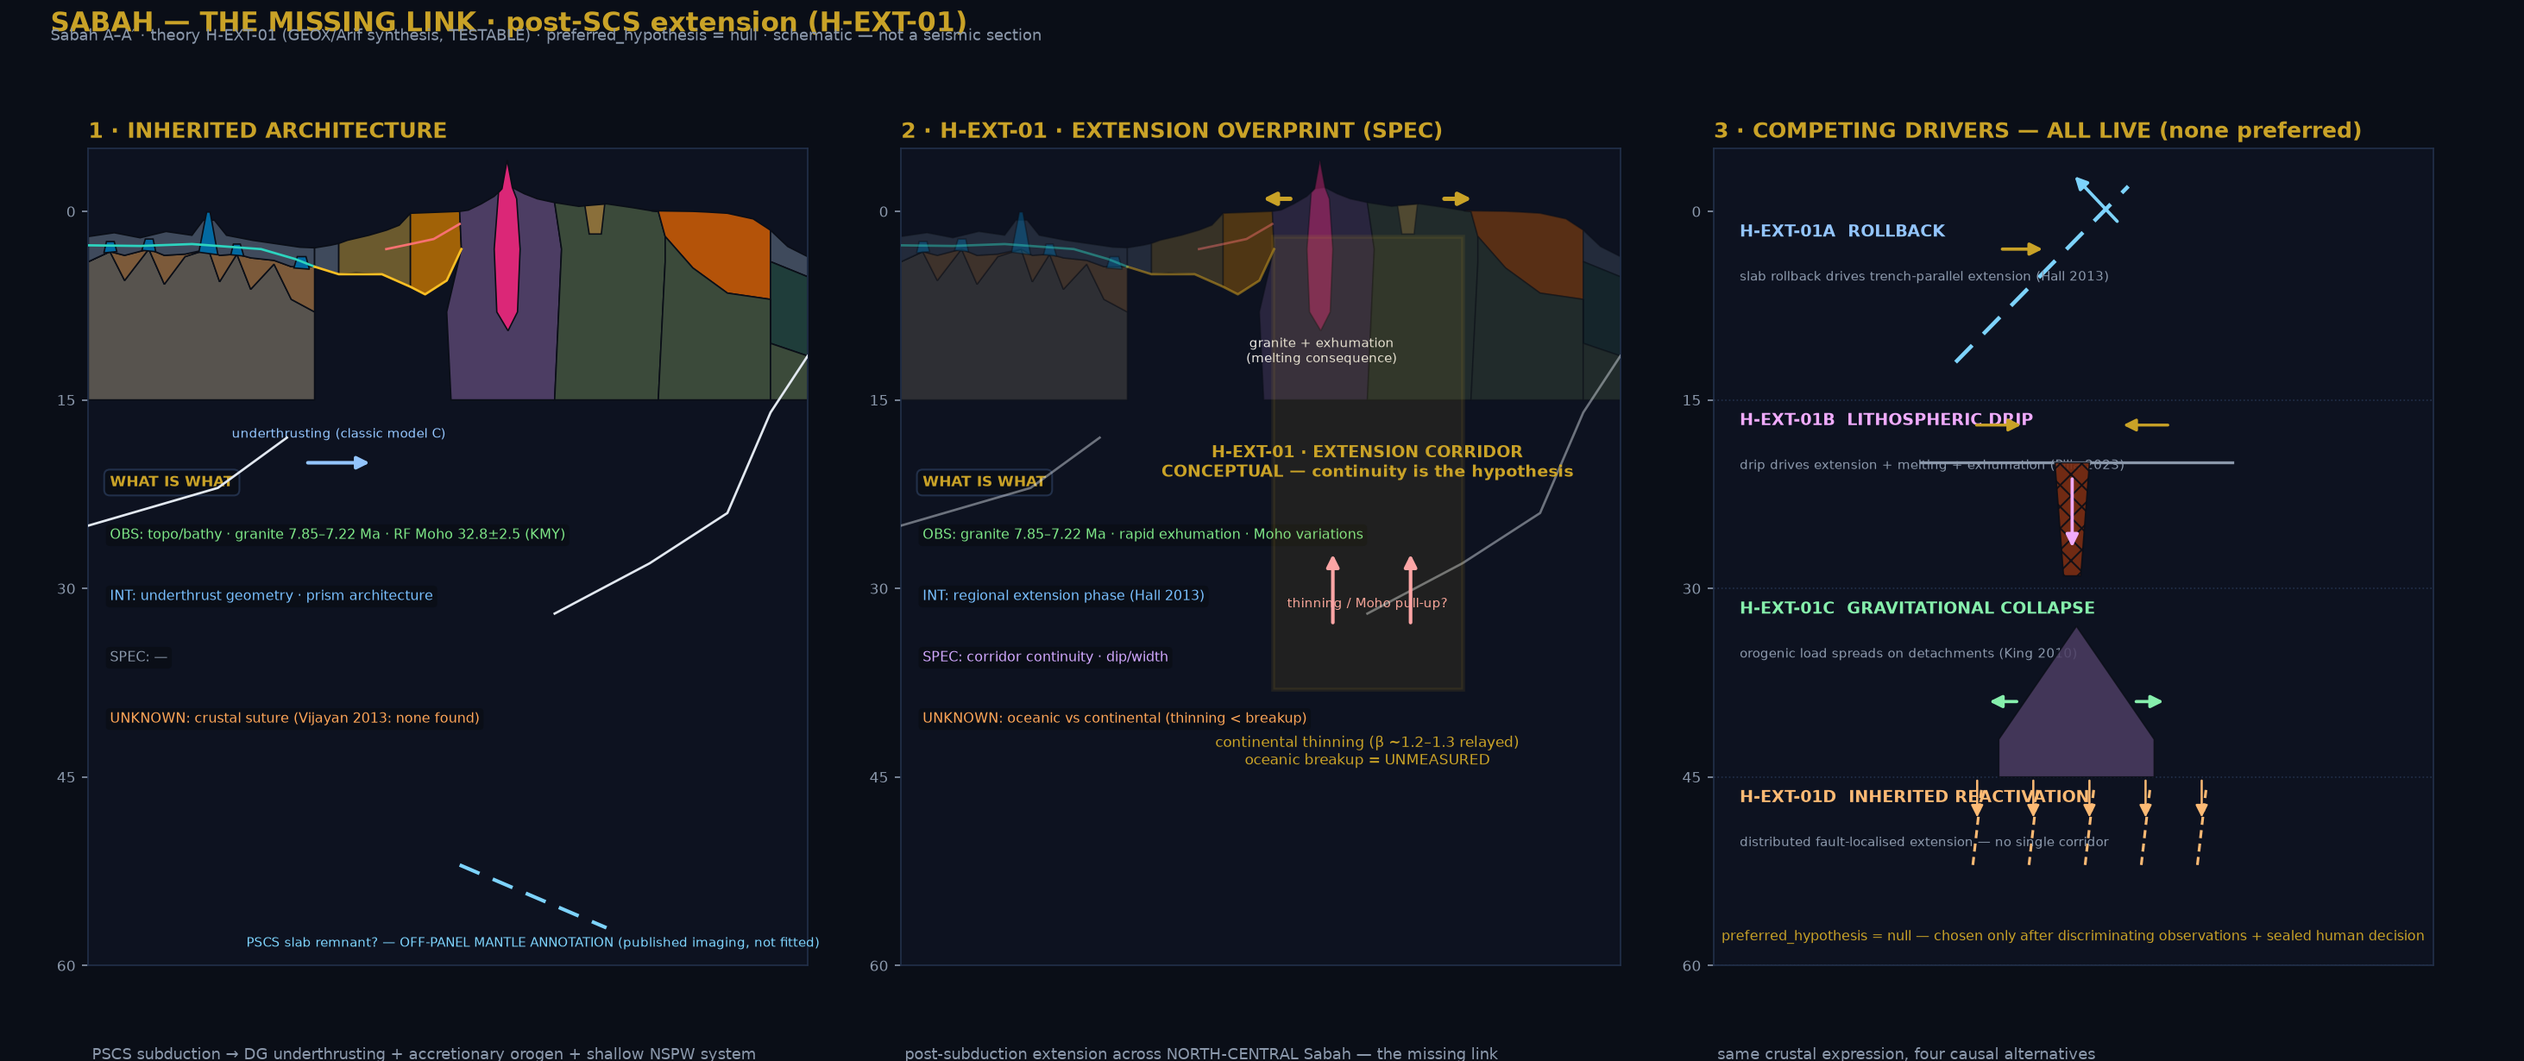
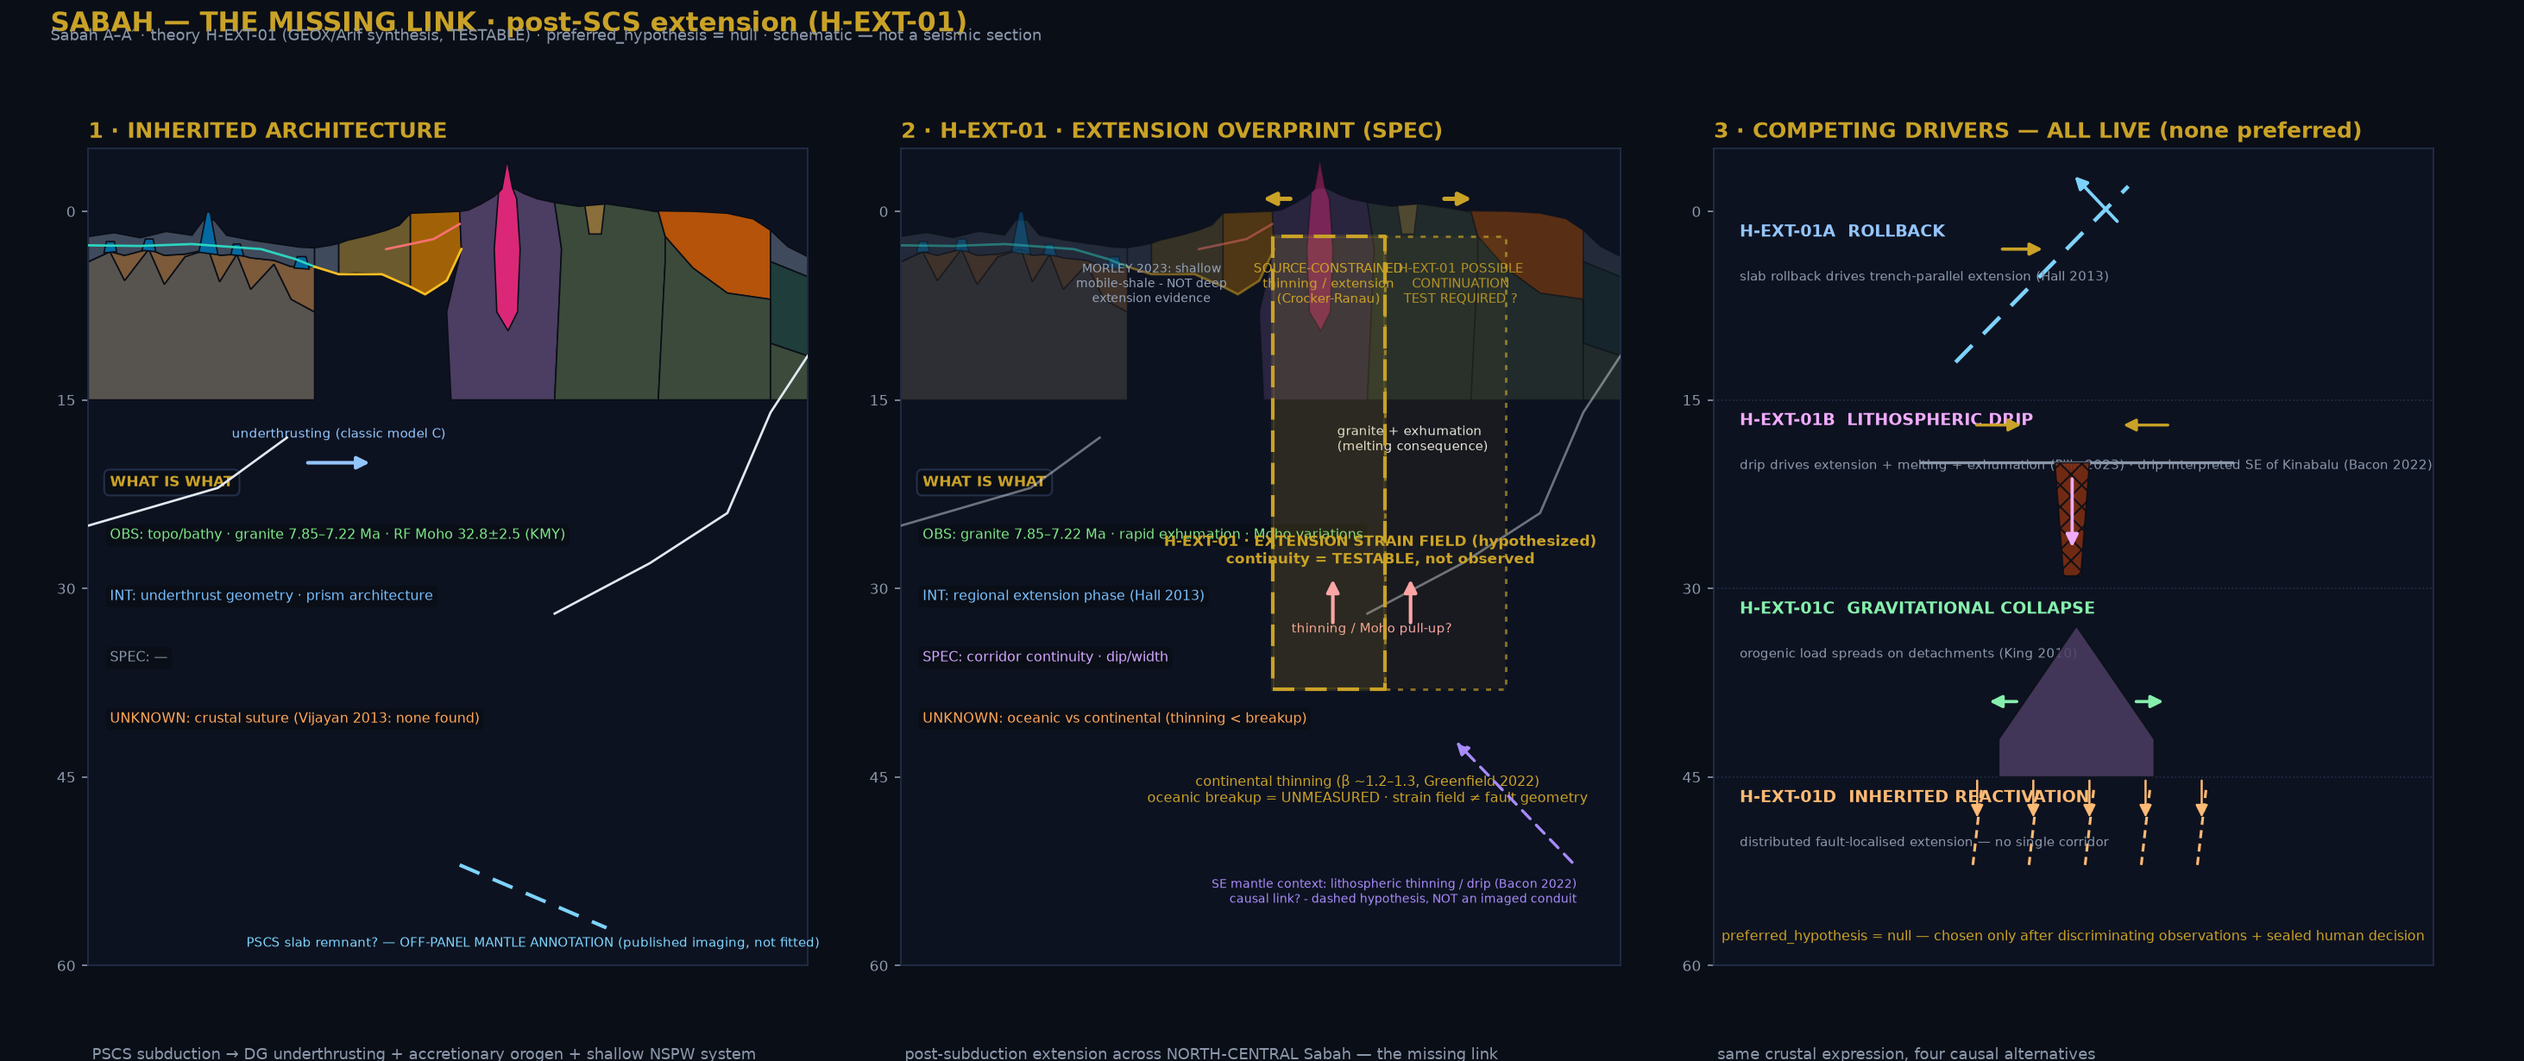
fix(geox/sections): H-EXT-01 scientific-scope patch — spatial confidence segmentation
Per scope review: the corridor must not read as uniformly proven along the
full 830 km transect. Implemented:

- figure grammar: corridor split into dashed fading segments —
  SOURCE-CONSTRAINED (Crocker-Ranau, x430-560) vs POSSIBLE CONTINUATION -
  TEST REQUIRED (Telupid+, x560-700); NSPW labelled "MORLEY 2023 shallow
  mobile-shale - NOT deep extension evidence" and kept disconnected; SE mantle
  context (Bacon 2022) as dashed causal arrow - "NOT an imaged conduit";
  wording changed to EXTENSION STRAIN FIELD (hypothesized), continuity =
  TESTABLE not observed, strain field != fault geometry
- H-EXT-01.md: official claim sentence; supported-core vs testable-reach
  table; spatial confidence segmentation law; HEXT-EV-01..06 evidence-object
  registry; source-boundary checks (beta 1.2-1.3 -> Greenfield et al. 2022 via
  primary pointer; Pilia 2023 = modelled mechanism only; Bacon 2022 =
  anisotropy context only; Morley 2023 = mobile shale only); build-fail rules
  (no solid corridor line, no 'confirmed corridor'/'through all Sabah' without
  OBS/DER object, no Morley-deep, no implied oceanic breakup, no omitted
  confidence categories, no privileged driver)
- SABAH_MODEL_LINEAGE.md: +M-GRL21, +M-GRN22 (Greenfield 2022, replaces
  M-THIN-RELAY), +M-BAC22, +M-RS861968 (~35 km crust Kinabalu/Ranau, ~30%
  thinning; Telupid <30 km) with relayed/primary-read-pending flags
- provenance_guard.py: +H01-grammar checks (segmentation labels, dashed
[…]

diff --git a/geox/sections/sabah_AA/render_hext01.py b/geox/sections/sabah_AA/render_hext01.py
@@ -152,45 +152,38 @@ def p1(ax, title, sub):
 
 def p2(ax, title, sub):
     frame(
-        ax, "2 · H-EXT-01 · EXTENSION OVERPRINT (SPEC)", "post-subduction extension across NORTH-CENTRAL Sabah — the missing link"
+        ax, "2 \u00b7 H-EXT-01 \u00b7 EXTENSION OVERPRINT (SPEC)", "post-subduction extension across NORTH-CENTRAL Sabah \u2014 the missing link"
     )
     draw_inherited(ax, alpha=0.45)
-    zone = [[430, 2], [650, 2], [650, 38], [430, 38]]
-    poly(ax, zone, "#c9a227", alpha=0.10, ec=GOLD, lw=2.2, z=7)
-    ax.text(
-        540,
-        20,
-        "H-EXT-01 · EXTENSION CORRIDOR\nCONCEPTUAL — continuity is the hypothesis",
-        color=GOLD,
-        fontsize=9,
-        ha="center",
-        va="center",
-        fontweight="bold",
-        zorder=9,
-    )
+    z1 = [[430, 2], [560, 2], [560, 38], [430, 38]]
+    z2 = [[560, 2], [700, 2], [700, 38], [560, 38]]
+    poly(ax, z1, "#c9a227", alpha=0.16, ec=GOLD, lw=2.0, z=7)
+    poly(ax, z2, "#c9a227", alpha=0.06, ec="none", z=7)
+    ax.plot([430, 430, 560, 560, 430], [2, 38, 38, 2, 2], color=GOLD, lw=2.0, ls=(0, (6, 3)), zorder=8)
+    ax.plot([560, 560, 700, 700, 560], [2, 38, 38, 2, 2], color=GOLD, lw=1.4, ls=(0, (2, 3)), alpha=0.65, zorder=8)
+    ax.text(495, 4, "SOURCE-CONSTRAINED\nthinning / extension\n(Crocker-Ranau)", color=GOLD, fontsize=7, ha="center", va="top", zorder=9)
+    ax.text(648, 4, "H-EXT-01 POSSIBLE\nCONTINUATION\nTEST REQUIRED ?", color=GOLD, fontsize=7, ha="center", va="top", alpha=0.85, zorder=9)
+    ax.text(290, 4, "MORLEY 2023: shallow\nmobile-shale - NOT deep\nextension evidence", color="#94a3b8", fontsize=6.8, ha="center", va="top", zorder=9)
+    ax.text(555, 27, "H-EXT-01 \u00b7 EXTENSION STRAIN FIELD (hypothesized)\ncontinuity = TESTABLE, not observed", color=GOLD, fontsize=8, ha="center", va="center", fontweight="bold", zorder=9)
+    ax.text(505, 19, "granite + exhumation\n(melting consequence)", color=INK, fontsize=7, ha="left")
     arrow(ax, (455, -1), (415, -1), GOLD, 2.4)
     arrow(ax, (625, -1), (665, -1), GOLD, 2.4)
-    ax.text(
-        540,
-        44,
-        "continental thinning (β ~1.2–1.3 relayed)\noceanic breakup = UNMEASURED",
-        color=GOLD,
-        fontsize=8,
-        ha="center",
-    )
-    arrow(ax, (500, 33), (500, 27), "#fca5a5", 2.0)
-    arrow(ax, (590, 33), (590, 27), "#fca5a5", 2.0)
-    ax.text(540, 31.5, "thinning / Moho pull-up?", color="#fca5a5", fontsize=7, ha="center")
-    ax.text(487, 12, "granite + exhumation\n(melting consequence)", color=INK, fontsize=7, ha="center")
+    ax.text(540, 47, "continental thinning (\u03b2 ~1.2\u20131.3, Greenfield 2022)\noceanic breakup = UNMEASURED \u00b7 strain field \u2260 fault geometry", color=GOLD, fontsize=7.5, ha="center")
+    arrow(ax, (500, 33), (500, 29), "#fca5a5", 2.0)
+    arrow(ax, (590, 33), (590, 29), "#fca5a5", 2.0)
+    ax.text(545, 33.5, "thinning / Moho pull-up?", color="#fca5a5", fontsize=7, ha="center")
+    arrow(ax, (780, 52), (640, 42), "#a78bfa", 1.6, ls=(0, (4, 3)))
+    ax.text(782, 55, "SE mantle context: lithospheric thinning / drip (Bacon 2022)\ncausal link? - dashed hypothesis, NOT an imaged conduit", color="#a78bfa", fontsize=6.8, ha="right")
     ledger(
         ax,
         [
-            ("OBS", "granite 7.85–7.22 Ma · rapid exhumation · Moho variations", "#7ee787"),
+            ("OBS", "granite 7.85\u20137.22 Ma \u00b7 rapid exhumation \u00b7 Moho variations", "#7ee787"),
             ("INT", "regional extension phase (Hall 2013)", "#79c0ff"),
-            ("SPEC", "corridor continuity · dip/width", "#d2a8ff"),
+            ("SPEC", "corridor continuity \u00b7 dip/width", "#d2a8ff"),
             ("UNKNOWN", "oceanic vs continental (thinning < breakup)", "#ffa657"),
         ],
     )
+
 
 
 def p3(ax, title, sub):
@@ -211,7 +204,13 @@ def p3(ax, title, sub):
     arrow(ax, (300, 17), (360, 17), GOLD, 1.6)
     arrow(ax, (530, 17), (470, 17), GOLD, 1.6)
     ax.text(30, 17, "H-EXT-01B  LITHOSPHERIC DRIP", color="#f0abfc", fontsize=9, fontweight="bold")
-    ax.text(30, 20.5, "drip drives extension + melting + exhumation (Pilia 2023)", color=DIM, fontsize=7)
+    ax.text(
+        30,
+        20.5,
+        "drip drives extension + melting + exhumation (Pilia 2023) \u00b7 drip interpreted SE of Kinabalu (Bacon 2022)",
+        color=DIM,
+        fontsize=7,
+    )
     # C collapse (z 30..45)
     poly(ax, [[330, 42], [420, 33], [510, 42], [510, 45], [330, 45]], "#4c3d63", alpha=0.85, z=5)
     arrow(ax, (355, 39), (315, 39), "#86efac", 1.8)

diff --git a/geox/sections/sabah_AA/provenance_guard.py b/geox/sections/sabah_AA/provenance_guard.py
@@ -72,6 +72,19 @@ for e in prov["entries"]:
             except Exception:
                 pass
 
+
+# 7. H-EXT-01 scope-patch rules (figure grammar)
+rscript = (HERE / "render_hext01.py").read_text()
+for req in ("SOURCE-CONSTRAINED", "POSSIBLE", "STRAIN FIELD", "preferred_hypothesis = null",
+            "NOT deep", "NOT an imaged conduit", "Greenfield"):
+    if req not in rscript:
+        fails.append(f"H01-GRAMMAR: missing '{req}' in figure script")
+for bad in ("confirmed corridor", "through all Sabah"):
+    if bad in rscript.lower():
+        fails.append(f"H01-GRAMMAR: banned phrase '{bad}'")
+if "ls=(0, (6, 3))" not in rscript or "ls=(0, (2, 3))" not in rscript:
+    fails.append("H01-GRAMMAR: corridor segments must both be dashed")
+
 print(f"provenance_guard: {len(prov['entries'])} entries checked")
 if fails:
     print(f"VERDICT: FAIL ({len(fails)})")

diff --git a/geox/sections/sabah_AA/H-EXT-01.md b/geox/sections/sabah_AA/H-EXT-01.md
@@ -3,7 +3,37 @@ Status: **TESTABLE · GEOX/Arif source-constrained synthesis · NOT a published 
 Registry: `sabah_model_provenance.json` · Lineage: `SABAH_MODEL_LINEAGE.md` · Guard: `provenance_guard.py`
 Author: Muhammad Arif bin Fazil (theory) · forged into falsifiable form 2026-10-20 · preferred_hypothesis = **null**
 
-## Claim
+## Claim (official wording, 2026-10-20 scope patch)
+> **H-EXT-01 proposes that post-subduction extension and lithospheric/crustal thinning affected
+> parts of north and central Sabah, potentially linking the Crocker–Kinabalu–Ranau–Telupid region
+> to a broader post-subduction deformation system. Its continuity, timing, kinematics, eastward
+> reach, and deep driver remain untested; it does not claim oceanic breakup or a new plate.**
+
+Mandatory figure wording: *"H-EXT-01 proposes regional to localized post-subduction
+extension/thinning. Continuity across the full transect is a testable hypothesis, not an observed
+structure."*
+
+### Supported core vs testable reach
+| Statement | Status |
+|---|---|
+| Northern Borneo underwent post-subduction deformation + localized extension/thinning | **Supported synthesis** (GRL 2021 post-subduction tectonics; Hall 2013) |
+| Kinabalu/Ranau underlain by relatively thin crust (~35 km), thinning ~30% | **Source-constrained interpretation** (Greenfield et al. 2022 family / RS preprint — primary read pending) |
+| Telupid crust thinner than 30 km | **Source-constrained interpretation** (same synthesis) |
+| Lithospheric drip (Sulu Arc root remnant) linked to extension/thinning SE of Kinabalu | **Published mantle interpretation + numerical mechanism** (Bacon et al. 2022 anisotropy; Pilia et al. 2023 modelling) — not direct proof |
+| A continuous extension corridor spans all of north-central Sabah | **H-EXT-01 hypothesis** — not directly demonstrated continuously |
+| Extension reached oceanic breakup / new plate / oceanic strip | **UNMEASURED — do not draw** |
+
+**Spatial confidence segmentation (figure law):**
+- **Crocker–Kinabalu–Ranau** → `SOURCE-CONSTRAINED POST-SUBDUCTION THINNING / EXTENSION`
+- **Telupid / interior eastward** → `H-EXT-01 POSSIBLE CONTINUATION — TEST REQUIRED`
+- **NW / NSPW** → `MORLEY 2023: SHALLOW MOBILE-SHALE SYSTEM — NOT EVIDENCE OF DEEP EXTENSION` (disconnected from the deep corridor unless a separate evidence object links them)
+- **SE toward Semporna/Tawau (if shown)** → `PUBLISHED MANTLE INTERPRETATION: LITHOSPHERIC THINNING / DRIP CONTEXT` — dashed off-panel causal arrow only, never an imaged conduit.
+
+**Grammar rules:** corridor = dashed, fading, segmented band (three confidence states) — never a solid
+envelope; mantle link = dashed causal arrow, never a physical pipe; **extension strain field ≠ extension
+fault geometry** (strain may be hypothesized; fault geometry requires mapped kinematics + dated structures).
+
+## Claim (original formulation)
 After Proto–South China Sea subduction terminated and Dangerous Grounds underthrusting built the
 inherited architecture, **extension propagated across north and central Sabah** (Crocker–Kinabalu–Telupid
 sector), overprinting the collisional architecture. Its crustal/lithospheric expression contributes to
@@ -21,6 +51,7 @@ delamination, or a lithospheric drip.
 - NOT oceanic spreading · NOT new oceanic crust · NOT a third plate · NOT "three plates beneath Sabah Basin".
 - NOT a measured continuous fault corridor (its continuity is the hypothesis).
 - NOT attributed to Morley et al. (2023) — their scope is the shallow mobile-shale system only.
+- No continuous mapped rift fault · no "confirmed corridor" · no "through all Sabah" phrasing without an OBS/DER evidence object · no direct mantle conduit.
 - No preferred driver. Any panel showing one driver as chosen without a sealed human decision = build failure.
 
 ## Alternative drivers (all live)
@@ -50,6 +81,14 @@ delamination, or a lithospheric drip.
 5. **A discrete alternative fits all observations** while H-EXT-01 fails (e.g. purely gravity-driven with zero deep signature).
 6. **Oceanic crust proven** — would not falsify extension, but would falsify the *continental* scope as stated → fork to H-EXT-02 (oceanic variant) rather than mutate this ID.
 
+## Build-fail additions (figure/registry gate)
+- a solid line represents the full corridor as observed → FAIL
+- "continuous" / "through all Sabah" / "confirmed corridor" without an OBS/DER evidence object → FAIL
+- Morley used to support deep extension → FAIL
+- oceanic breakup visually implied → FAIL
+- confidence categories omitted from the corridor graphic → FAIL
+- a driver visually privileged without a sealed human-gate decision → FAIL
+
 ## Driver-discriminating surveys (what kills A vs B vs C vs D)
 | Survey | A rollback | B drip | C gravity | D reactivation |
 |---|---|---|---|---|
@@ -57,6 +96,23 @@ delamination, or a lithospheric drip.
 | RF Moho + tomography | hinge-migrated thinning | Moho + drip column above anomaly | thinning under load only | no coherent Moho signal |
 | Extensional fault maps | regional, trench-parallel | symmetric about drip | load-bounded, detachment-linked | localised on inherited faults |
 | Thermochronology | migration with hinge | focused above drip | load-progressive | patchy, fault-controlled |
+
+## Evidence-object registry (HEXT-EV)
+| ID | Object | Status | Decides |
+|---|---|---|---|
+| HEXT-EV-01 | Crustal thickness / thinning constraint, Crocker–Kinabalu–Ranau | OPEN | is thinning localized or continuous? |
+| HEXT-EV-02 | Telupid crustal thickness + structural timing | OPEN | does the corridor continue east? |
+| HEXT-EV-03 | Extensional vs contractional kinematic dataset | OPEN | strain field real? fault geometry? |
+| HEXT-EV-04 | Magmatic / thermochronologic timing | OPEN | extension after subduction termination? |
+| HEXT-EV-05 | Gravity + magnetics + heat-flow/BHT discrimination | OPEN | density vs intrusive vs architecture |
+| HEXT-EV-06 | Mantle anisotropy / tomography spatial registration | OPEN | drip vs rollback vs inherited fabric |
+
+## Source-boundary checks (attribution law, extended)
+- β ≈ 1.2–1.3 thinning → **Greenfield et al. (2022)** (ScienceDirect S1342937X2200243X) — cite via this
+  primary pointer; treat as *below crustal-breakup values*.
+- **Pilia et al. (2023)** → modelled lithospheric-drip MECHANISM only — never direct observation of crustal geometry.
+- **Bacon et al. (2022)** → anisotropy / lithospheric-thinning CONTEXT only — not proof of a continuous corridor.
+- **Morley et al. (2023)** → mobile shale / mud canopy ONLY (see lineage §0).
 
 ## Decision rule
 No driver may be shown as preferred on any figure or page until a **sealed human-gate decision**

diff --git a/geox/sections/sabah_AA/SABAH_MODEL_LINEAGE.md b/geox/sections/sabah_AA/SABAH_MODEL_LINEAGE.md
@@ -128,6 +128,23 @@ Nature Geoscience 2023 (s41561-023-01201-7)  [first-author attribution per relay
 ### M-CHOI26 — Choi, T. (2026), TGS/EAGE workshop — Layang-Layang Oligocene play
 - Claim: frontier play context. Evidence: workshop abstract. **Does NOT claim:** Sabah crustal architecture.
 
+### M-GRL21 — "Post-Subduction Tectonics of Sabah, Northern Borneo, Inferred from…" (GRL 2021, doi:10.1029/2021GL096117)  [RELAYED]
+- Claim: northern Borneo post-subduction deformation incl. localized extension/thinning.
+- **Does NOT claim:** a continuous corridor geometry.
+
+### M-GRN22 — Greenfield et al. (2022), "Continental rifting in the South China Sea through extension…" (S1342937X2200243X)
+- Claim: **β ≈ 1.2–1.3 crustal thinning — below crustal-breakup values** → continental extension favoured.
+- Section geometry? No. **Does NOT claim:** oceanic breakup in Sabah. [primary-source read pending]
+
+### M-BAC22 — Bacon et al. (2022), "The Signature of Lithospheric Anisotropy at Post-Subduction…" (doi family 2022GC010564)
+- Claim: anisotropy — marked lithospheric thinning around **Tawau/Semporna (SE Sabah)**; fast anomaly
+  trending toward Kinabalu, linked to a possible drip. Mantle-scale context.
+- **Does NOT claim:** a continuous extension corridor · an imaged mantle conduit.
+
+### M-RS861968 — "Effects of post-subduction processes on continental lithosphere" (ResearchSquare rs-861968 preprint)  [RELAYED]
+- Claim: Kinabalu/Ranau crust **~35 km** with thinning **~30%**; **Telupid crust <30 km**.
+- Limitation: preprint — source-constrained interpretation, not final publication.
+
 ## 2. GEOX / Arif models (versioned registry)
 
 | ID | Type | Basis | Status | Does NOT claim |

diff --git a/geox/sections/sabah_AA/geometry_diff.md b/geox/sections/sabah_AA/geometry_diff.md
@@ -1,0 +1,13 @@
+# Before/after geometry diff — H-EXT-01 scientific-scope patch (2026-10-20)
+Rule applied: do NOT imply a continuous mapped extension corridor across the full 830 km transect.
+
+| Element | Before | After |
+|---|---|---|
+| Corridor envelope | single translucent rectangle x=430–650, solid edges, one label "EXTENSION CORRIDOR CONCEPTUAL" | **two dashed segments + fade**: 430–560 `SOURCE-CONSTRAINED (Crocker–Kinabalu–Ranau)` heavy-dash edge α0.16; 560–700 `POSSIBLE CONTINUATION — TEST REQUIRED (Telupid+) ?` light-dash edge α0.06 |
+| NSPW zone | unlabelled | `MORLEY 2023: shallow mobile-shale — NOT deep extension evidence` — disconnected from deep corridor |
+| SE mantle | absent | dashed causal arrow + `SE mantle context: lithospheric thinning / drip (Bacon 2022) — causal link? NOT an imaged conduit` |
+| Wording | "EXTENSION CORRIDOR · continuity is the hypothesis" | "EXTENSION STRAIN FIELD (hypothesized) · continuity = TESTABLE, not observed · strain field ≠ fault geometry" |
+| β citation | "relayed" | "β ~1.2–1.3, Greenfield 2022" (primary-source pointer recorded; read pending) |
+| Drivers | unchanged | unchanged (all live; preferred=null) |
+| Ledger panels | unchanged | unchanged (OBS/INT/SPEC/UNKNOWN) |
+Retained geometry: all inherited-architecture bodies, granite, off-panel slab annotation, thinning arrows, panel structure.

diff --git a/geox/sections/sabah_AA/uncertainty_note_public.md b/geox/sections/sabah_AA/uncertainty_note_public.md
@@ -1,0 +1,7 @@
+# Public-facing uncertainty note (H-EXT-01)
+"This figure shows a hypothesis, not a discovery. Published work supports post-subduction extension
+and crustal thinning in parts of north-central Sabah (strongest around Crocker–Kinabalu–Ranau;
+continuation eastward toward Telupid is untested). The mantle connection is a modelled mechanism
+and a dashed inference — nothing here is an imaged conduit. Whether the extension ever reached
+oceanic breakup is unknown and is drawn as a test, not a fact. No continuous rift fault has been
+mapped along this line. Morley et al. (2023) is cited only for the shallow mobile-shale system."
